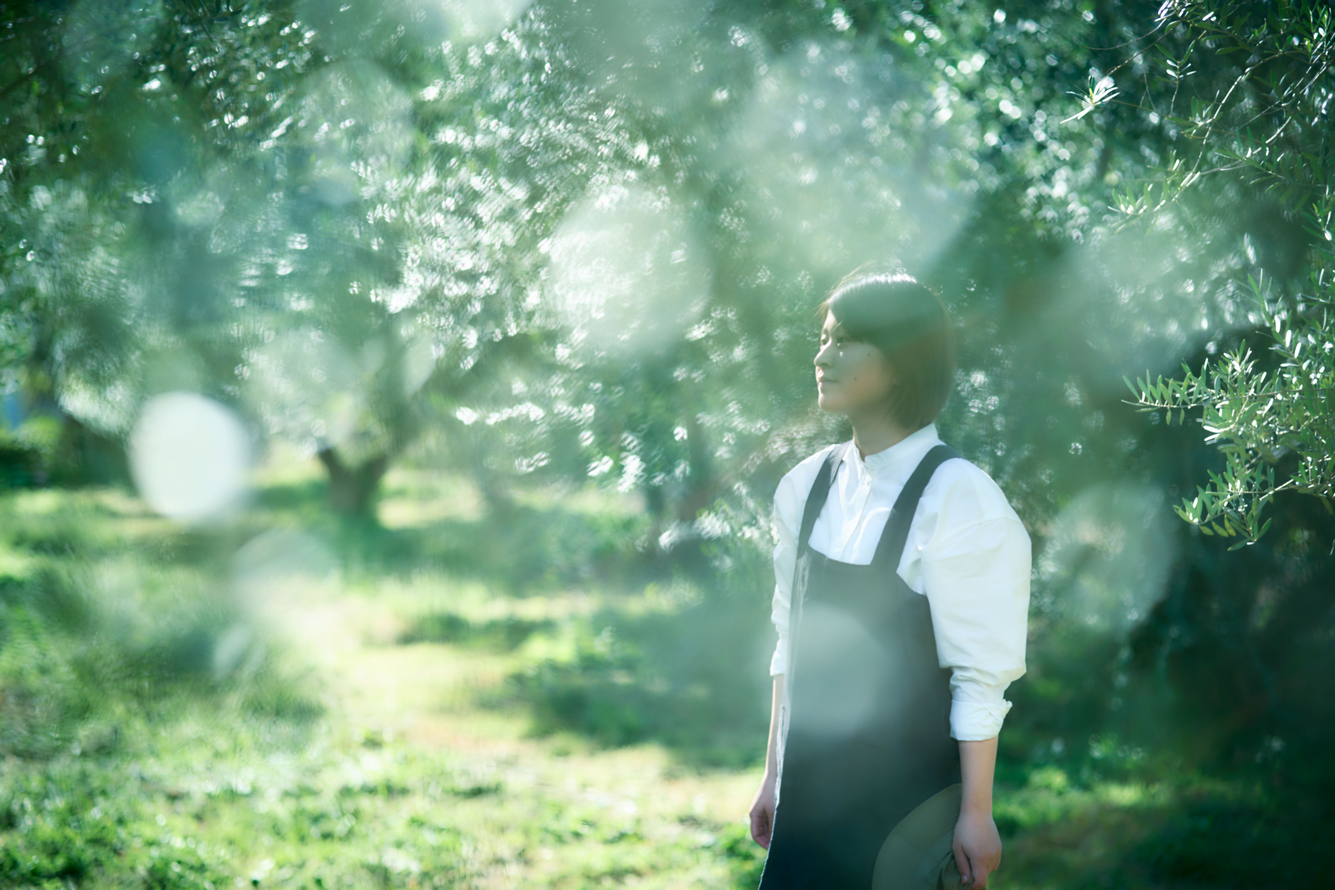
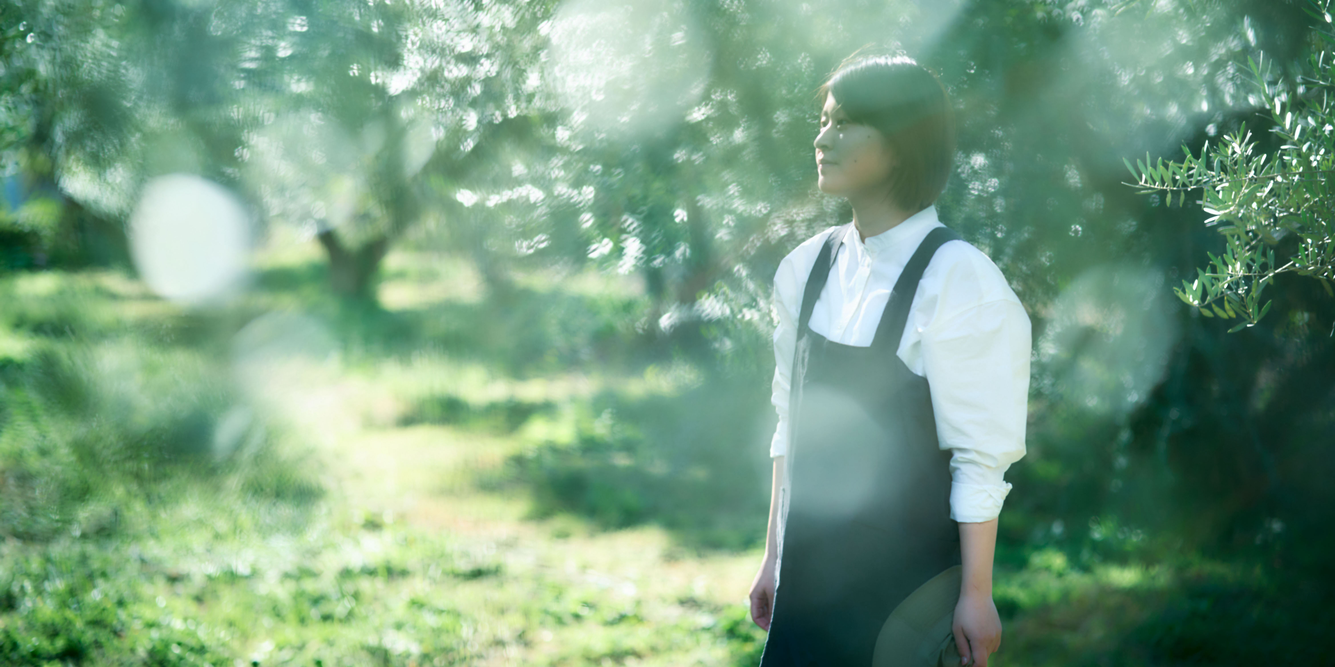
Fix: fixed top image size

diff --git a/src/pages/index.vue b/src/pages/index.vue
@@ -9,7 +9,7 @@ const { data } = await useAsyncData('index', () => {
     <div>
       <div class="mx-auto max-w-max relative">
         <picture>
-          <source srcset="/img/top.jpg" />
+          <source media="(max-width:425px)" srcset="/img/top_sp.jpg" />
           <img
             class="rounded-3xl min-h-[560px] object-cover"
             srcset=""
